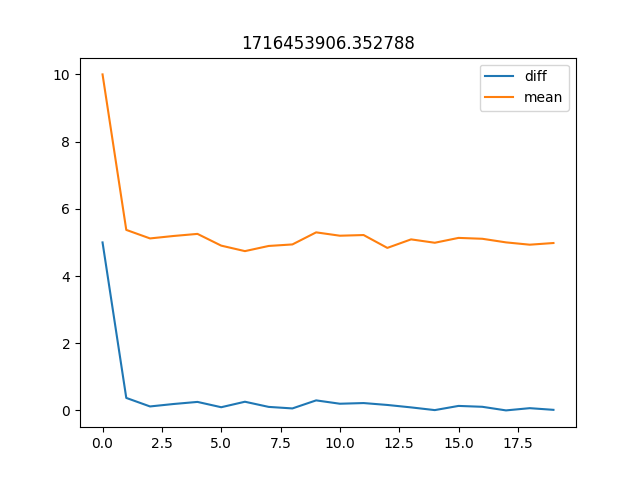
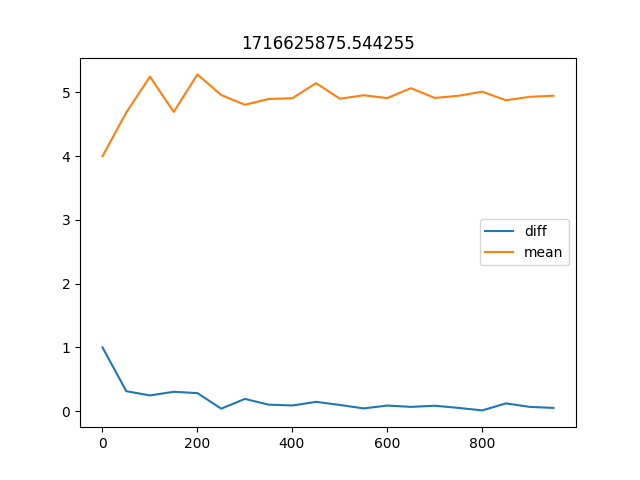
Solutions for pre-exam

diff --git a/semester-2/prog-2/pre-exam/3_pandas_visualisation.py b/semester-2/prog-2/pre-exam/3_pandas_visualisation.py
@@ -45,7 +45,6 @@ class PandasValidation:
 
     def random_runner(self, value_min, value_max, rounds, spacing):
         mean_expected = (value_max - value_min) / 2
-        count = 0
         for size in range(1, rounds, spacing):
             self.dfmittel = self.dfmittel.head(0)
             for i in range(size):
@@ -53,9 +52,8 @@ class PandasValidation:
                 self.dfmittel.loc[i] = value_random
             # Teilaufgabe 2 hier ergänzen
             mean = self.dfmittel.value.mean()
-            self.dfvis.loc[count, 'mean'] = mean
-            self.dfvis.loc[count, 'diff'] = abs(mean_expected - mean)
-            count += 1
+            self.dfvis.loc[size, 'mean'] = mean
+            self.dfvis.loc[size, 'diff'] = abs(mean_expected - mean)
         fig = self.dfvis.plot(title=str(time.time()))
         fig.figure.savefig('image.png')
 

diff --git a/semester-2/prog-2/pre-exam/5_complexity.py b/semester-2/prog-2/pre-exam/5_complexity.py
@@ -86,7 +86,7 @@ def measurement(algo, args):
 
 
 def experiment():
-    for exp in range(3, 6):
+    for exp in range(3, 9):
         test_list = list_generator(10 ** exp)
         pivot = random.choice(test_list)
         print(f"Laufzeitmessung Algorithmus A für 10^{exp}: ", end='')
